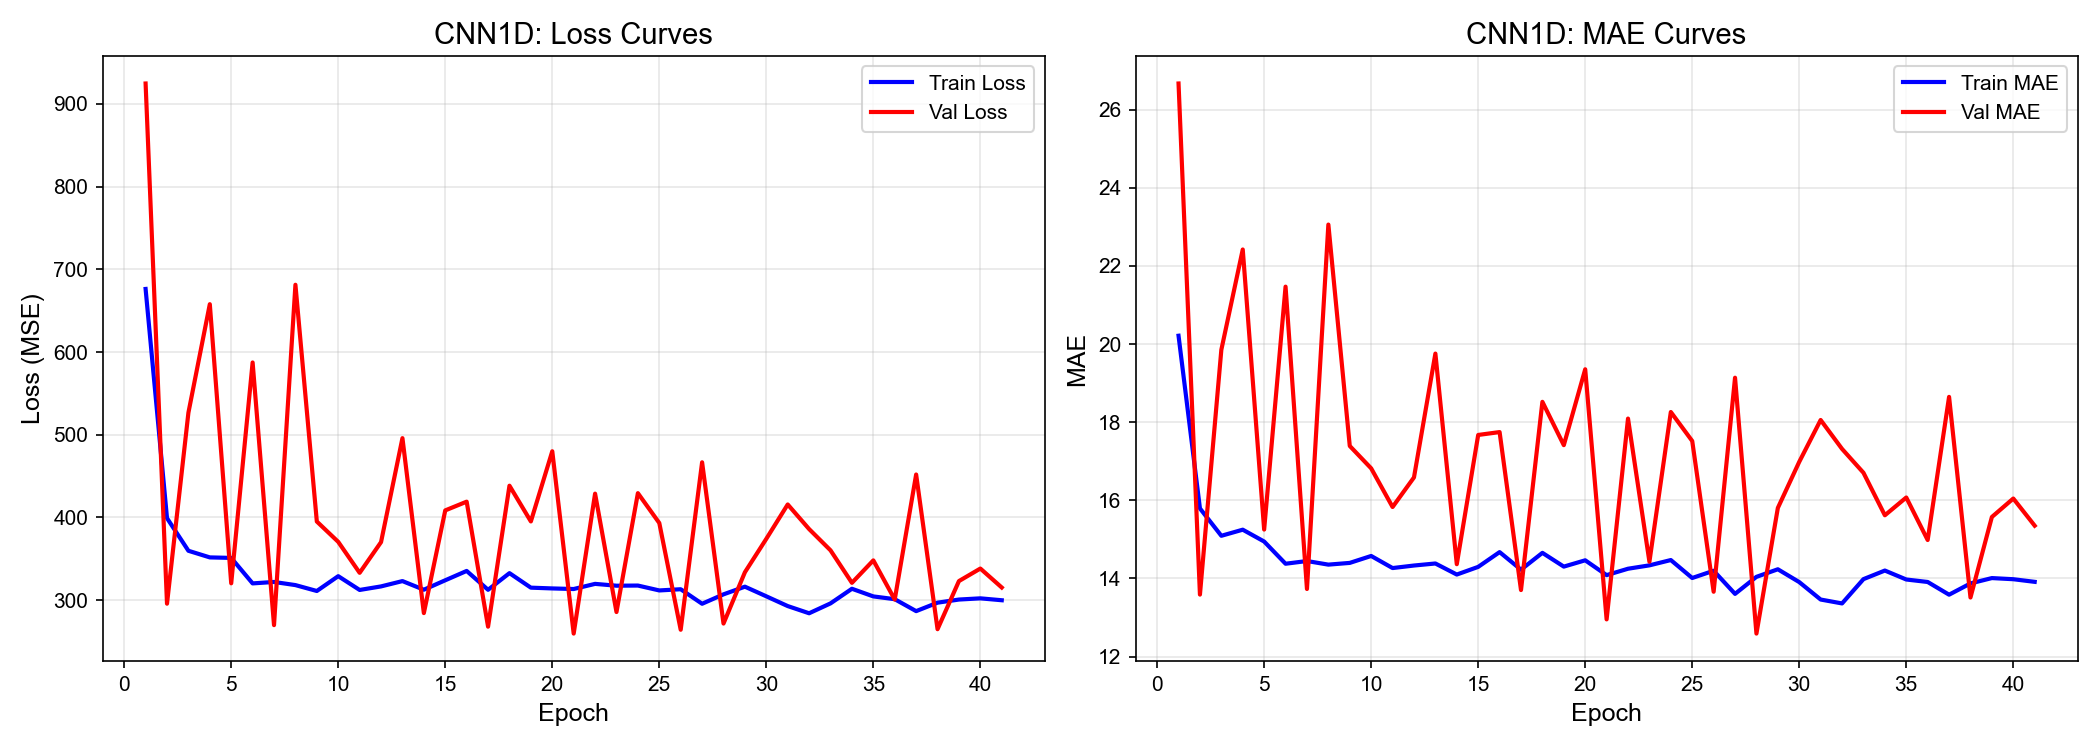
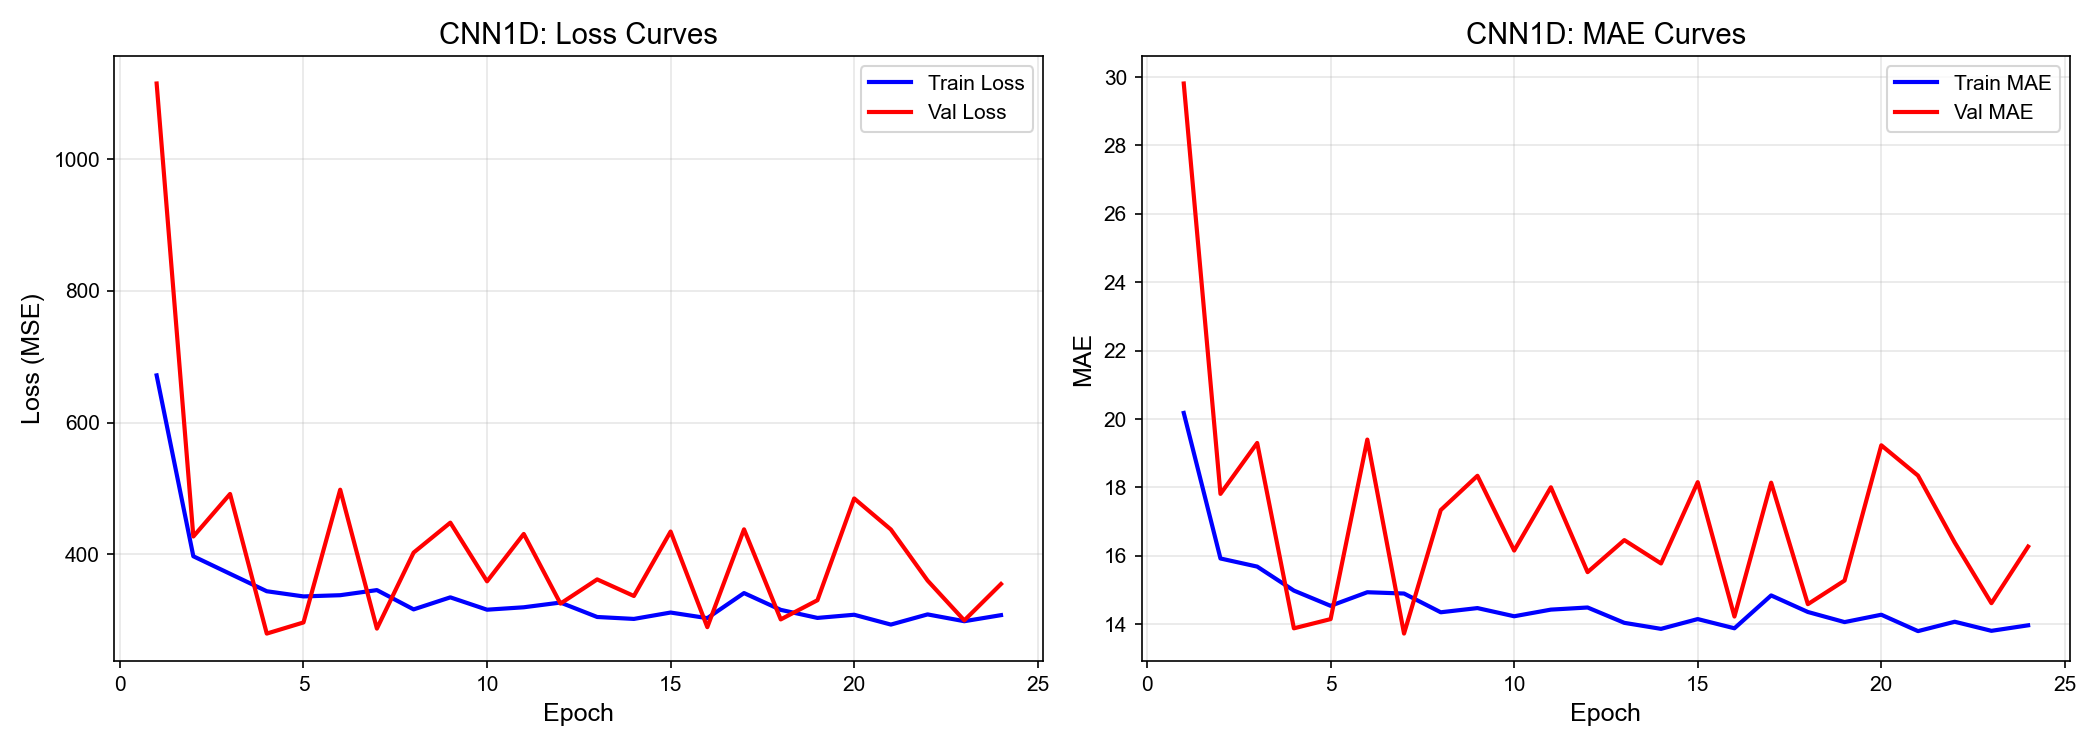
feat(训练): 添加WarmupCosineScheduler并改进模型保存逻辑
添加WarmupCosineScheduler学习率调度器，支持预热阶段
修改训练逻辑以保存和加载验证集最佳模型
更新early_stopping_metric配置选项

diff --git a/scripts/deep_learning/training/optimizer.py b/scripts/deep_learning/training/optimizer.py
@@ -1,7 +1,34 @@
 import torch
+import numpy as np
 from typing import Optional, Dict, Any
 from torch.optim import AdamW, SGD, Adam
 from torch.optim.lr_scheduler import CosineAnnealingLR, ReduceLROnPlateau, StepLR, ExponentialLR
+
+
+class WarmupCosineScheduler:
+    def __init__(self, optimizer, warmup_epochs: int, total_epochs: int, base_lr: float, min_lr: float = 1e-6):
+        self.optimizer = optimizer
+        self.warmup_epochs = warmup_epochs
+        self.total_epochs = total_epochs
+        self.base_lr = base_lr
+        self.min_lr = min_lr
+        self.current_epoch = 0
+
+    def step(self, epoch: Optional[int] = None):
+        if epoch is not None:
+            self.current_epoch = epoch
+
+        if self.current_epoch < self.warmup_epochs:
+            lr = self.base_lr * (self.current_epoch + 1) / self.warmup_epochs
+        else:
+            progress = (self.current_epoch - self.warmup_epochs) / max(1, self.total_epochs - self.warmup_epochs)
+            lr = self.min_lr + (self.base_lr - self.min_lr) * (1 + np.cos(np.pi * progress)) / 2
+
+        for param_group in self.optimizer.param_groups:
+            param_group['lr'] = lr
+
+    def get_last_lr(self):
+        return [group['lr'] for group in self.optimizer.param_groups]
 
 
 def build_optimizer(model, optimizer_name: str = 'adamw', learning_rate: float = 0.001,
@@ -67,5 +94,14 @@ def build_scheduler(optimizer: torch.optim.Optimizer, scheduler_name: str = 'cos
         )
     elif scheduler_name == 'none':
         return None
+    elif scheduler_name == 'warmup_cosine':
+        warmup_epochs = kwargs.get('warmup_epochs', 10)
+        return WarmupCosineScheduler(
+            optimizer,
+            warmup_epochs=warmup_epochs,
+            total_epochs=epochs,
+            base_lr=kwargs.get('base_lr', 0.001),
+            min_lr=kwargs.get('eta_min', 1e-6)
+        )
     else:
         raise ValueError(f"Unknown scheduler: {scheduler_name}")

diff --git a/training/deep_learning/train_all_dl_models.py b/training/deep_learning/train_all_dl_models.py
@@ -122,6 +122,7 @@ def train_and_evaluate(model_name, model_class, model_kwargs, X_train, y_train, 
         device=device,
         scheduler=scheduler,
         early_stopping_patience=20,
+        early_stopping_metric='loss',
         l1_reg=0.0,
         l2_reg=1e-4
     )
@@ -136,7 +137,14 @@ def train_and_evaluate(model_name, model_class, model_kwargs, X_train, y_train, 
 
     save_dir = os.path.join(MODELS_DIR, model_name.lower())
     os.makedirs(save_dir, exist_ok=True)
-    model.save(os.path.join(save_dir, 'final_model.pt'))
+
+    best_model_path = os.path.join(save_dir, 'best_model.pt')
+    if os.path.exists(best_model_path):
+        model.load_state_dict(torch.load(best_model_path, map_location=device)['model_state_dict'])
+        logger.info(f"已加载验证集最佳模型进行评估: {best_model_path}")
+
+    model.save(best_model_path)
+    logger.info(f"保存最佳模型到: {best_model_path}")
 
     history_df = pd.DataFrame(history)
     history_df.to_csv(os.path.join(save_dir, 'training_history.csv'), index=False)

diff --git a/scripts/deep_learning/training/trainer.py b/scripts/deep_learning/training/trainer.py
@@ -7,6 +7,7 @@ import logging
 import os
 
 from ..models.base.base_model import BaseDeepModel
+from .optimizer import WarmupCosineScheduler
 
 
 logger = logging.getLogger(__name__)
@@ -181,6 +182,8 @@ class Trainer:
             if self.scheduler is not None:
                 if isinstance(self.scheduler, torch.optim.lr_scheduler.ReduceLROnPlateau):
                     self.scheduler.step(val_metrics['loss'])
+                elif isinstance(self.scheduler, WarmupCosineScheduler):
+                    self.scheduler.step(epoch)
                 else:
                     self.scheduler.step()
 
